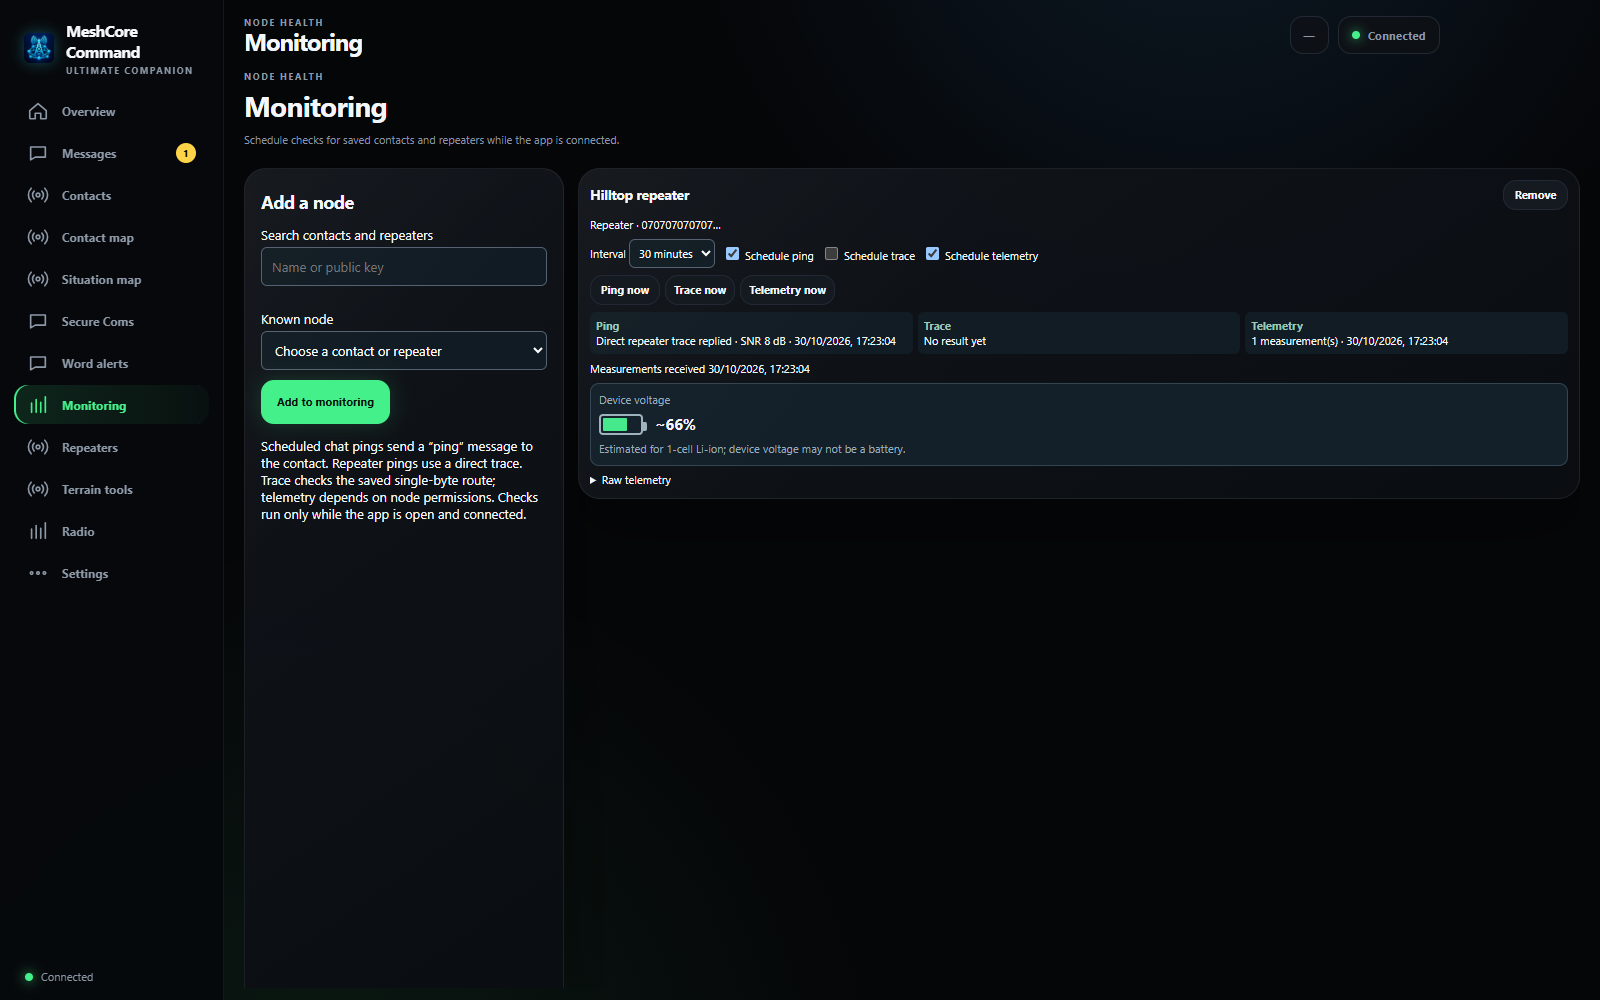
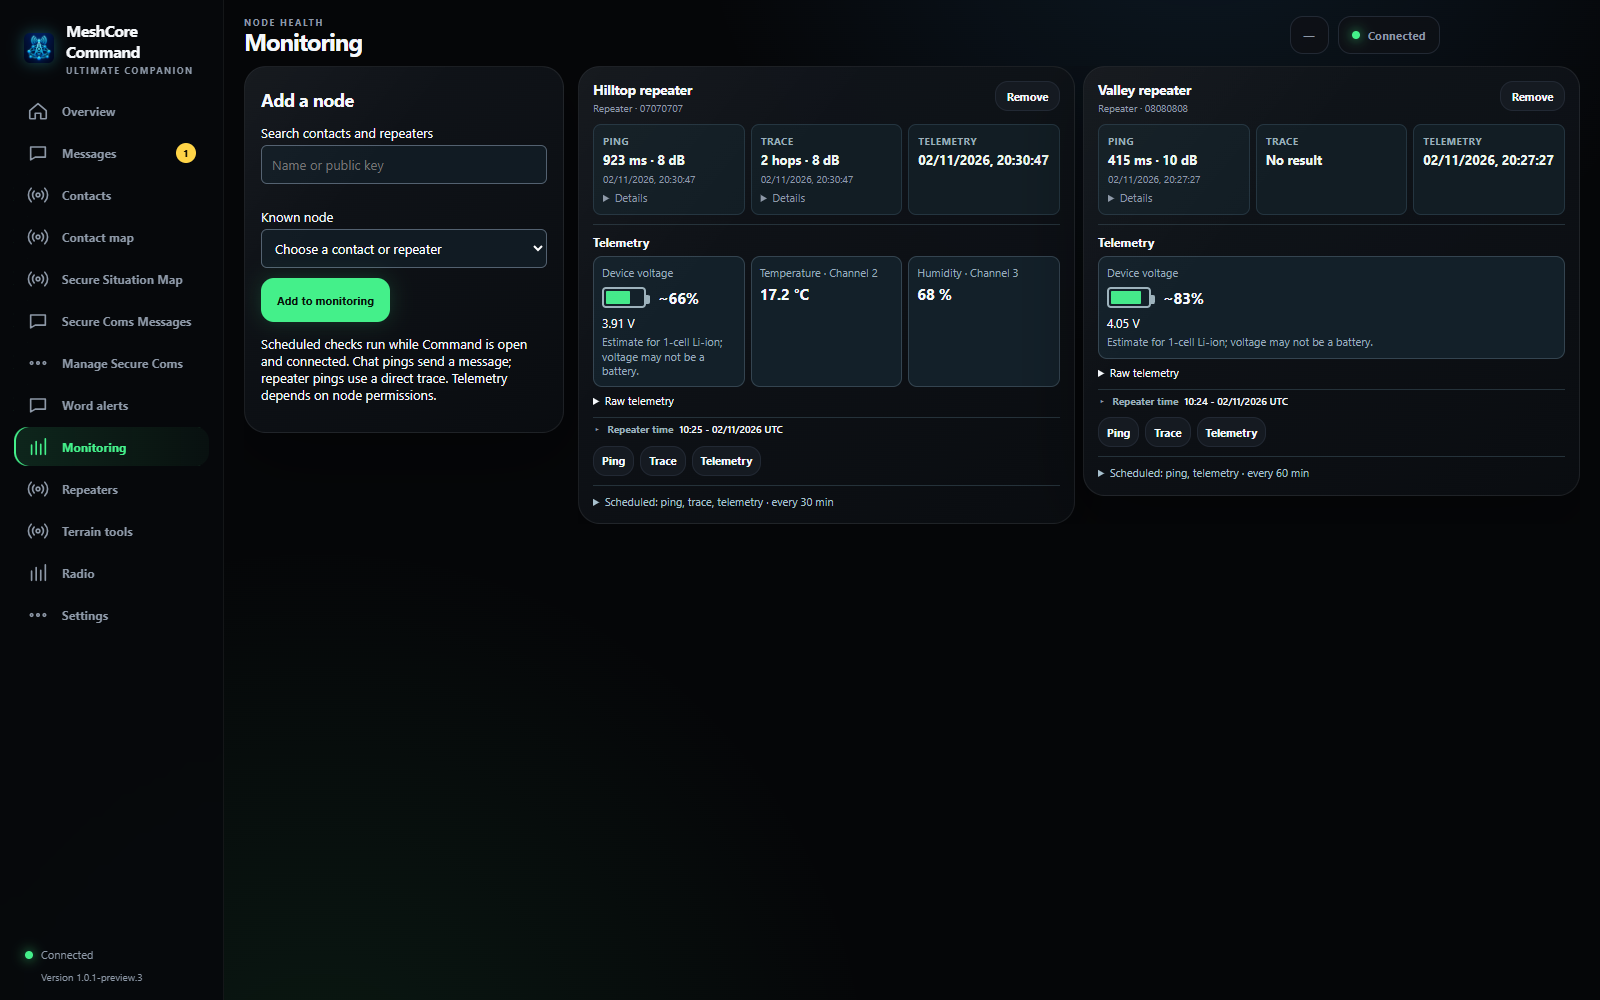
Refresh screenshots for current interface

diff --git a/README.md b/README.md
@@ -15,13 +15,13 @@ Download the [latest Windows installer](https://github.com/Nortag82/MeshCore-Com
 
 [See screenshots of every menu](docs/SCREENSHOTS.md), including connection and firmware setup.
 
-> Screenshots use simulated contacts, messages, telemetry and map markers. Some show an earlier layout. Map data © OpenStreetMap contributors.
+> Screenshots use simulated contacts, messages, telemetry and map markers. Map data © OpenStreetMap contributors.
 
-### Situation map
+### Secure Situation Map
 
 Build a shared picture using markers, civilian and emergency icons, and drawn areas. The floating toolbar provides marker, area, sharing and map controls; right-click to create or edit a marker. To move it, select it, choose **Move selected marker**, click the new position and save. Markers cannot be dragged. Markers can be saved locally, even before you add a secure contact.
 
-![Situation map showing example command, medical and reconnaissance markers](docs/images/situation-map.png)
+![Secure Situation Map showing the floating toolbar, selected recipients and example objects](docs/images/situation-map.png)
 
 Share marker and area updates with selected verified Secure Coms contacts or local groups. Full-picture sharing targets selected recipients; forwarding received markers is separately opt-in. The app shows which marker updates the receiving app has confirmed saving. Both users need compatible MeshCore Command installations and a connected radio. Sharing uses the experimental Secure Coms protocol; it has not been independently audited and does not provide forward secrecy. It is not ATAK compatible.
 
@@ -33,7 +33,7 @@ In **Manage Secure Coms**, use **Discover Command installs** to send a discovery
 
 Open **Settings** on the Situation map, select two corners of an area, choose a detail level and download it for later use without internet. You can also import a Protomaps PMTiles map or a raster MBTiles map. Map downloads require internet and use local disk space; terrain coverage tools need separate online elevation data.
 
-![Situation map settings showing a selected area ready for offline download](docs/images/situation-map-settings.png)
+![Secure Situation Map settings and offline map options](docs/images/situation-map-settings.png)
 
 ### Overview
 See radio status, recent activity, monitored nodes and quick actions in one place.
@@ -48,6 +48,8 @@ Switch between direct messages, channels and rooms; unread counts show which tab
 ### Elevation finder
 
 In **Terrain tools**, enter a height above sea level to highlight terrain above that threshold across the visible map. The result uses online Mapzen terrain tiles and is an estimate; its displayed resolution and the underlying source data limit the detail. Move or zoom the map and recalculate for the new view.
+
+![Terrain tools showing the elevation finder](docs/images/terrain-tools.png)
 
 ### Monitoring
 Schedule checks and review the latest available measurements for contacts and repeaters.

diff --git a/docs/SCREENSHOTS.md b/docs/SCREENSHOTS.md
@@ -1,6 +1,6 @@
 # MeshCore Command screenshots
 
-Screens show simulated contacts, messages, addresses and map markers. Map data © OpenStreetMap contributors.
+Screens show the current interface with simulated contacts, messages, addresses, telemetry and map markers. Map data © OpenStreetMap contributors.
 
 ## Connect
 
@@ -38,17 +38,41 @@ View known locations and packet information.
 
 ![Contact map screen](images/contact-map.png)
 
-## Situation map
+## Secure Situation Map
 
-Create and share map markers.
+Use the floating toolbar to create markers and areas and share them with selected secure contacts or a group.
 
 ![Situation map screen](images/situation-map.png)
 
-## Secure Coms
+## Secure Coms Messages
 
-Set up encrypted contacts and discover compatible installations.
+Send encrypted messages to individual contacts.
 
-![Secure Coms screen](images/secure-coms.png)
+![Secure Coms Messages screen](images/secure-coms.png)
+
+## Secure groups
+
+Send to the members of a local recipient group.
+
+![Secure group conversation](images/secure-groups.png)
+
+## Manage Secure Coms
+
+Manage secure contacts, verify fingerprints and arrange local groups.
+
+![Manage Secure Coms screen](images/secure-manage.png)
+
+## Secure Coms backup
+
+Export or import an encrypted backup of secure settings.
+
+![Secure Coms backup](images/secure-backup.png)
+
+## Situation map settings
+
+Configure the map and offline map options.
+
+![Situation map settings](images/situation-map-settings.png)
 
 ## Word alerts
 
@@ -70,7 +94,7 @@ Control repeaters and review neighbour links.
 
 ## Terrain tools
 
-Plan links and estimate terrain visibility.
+Plan links, estimate terrain visibility and highlight terrain above a chosen elevation.
 
 ![Terrain tools screen](images/terrain-tools.png)
 
